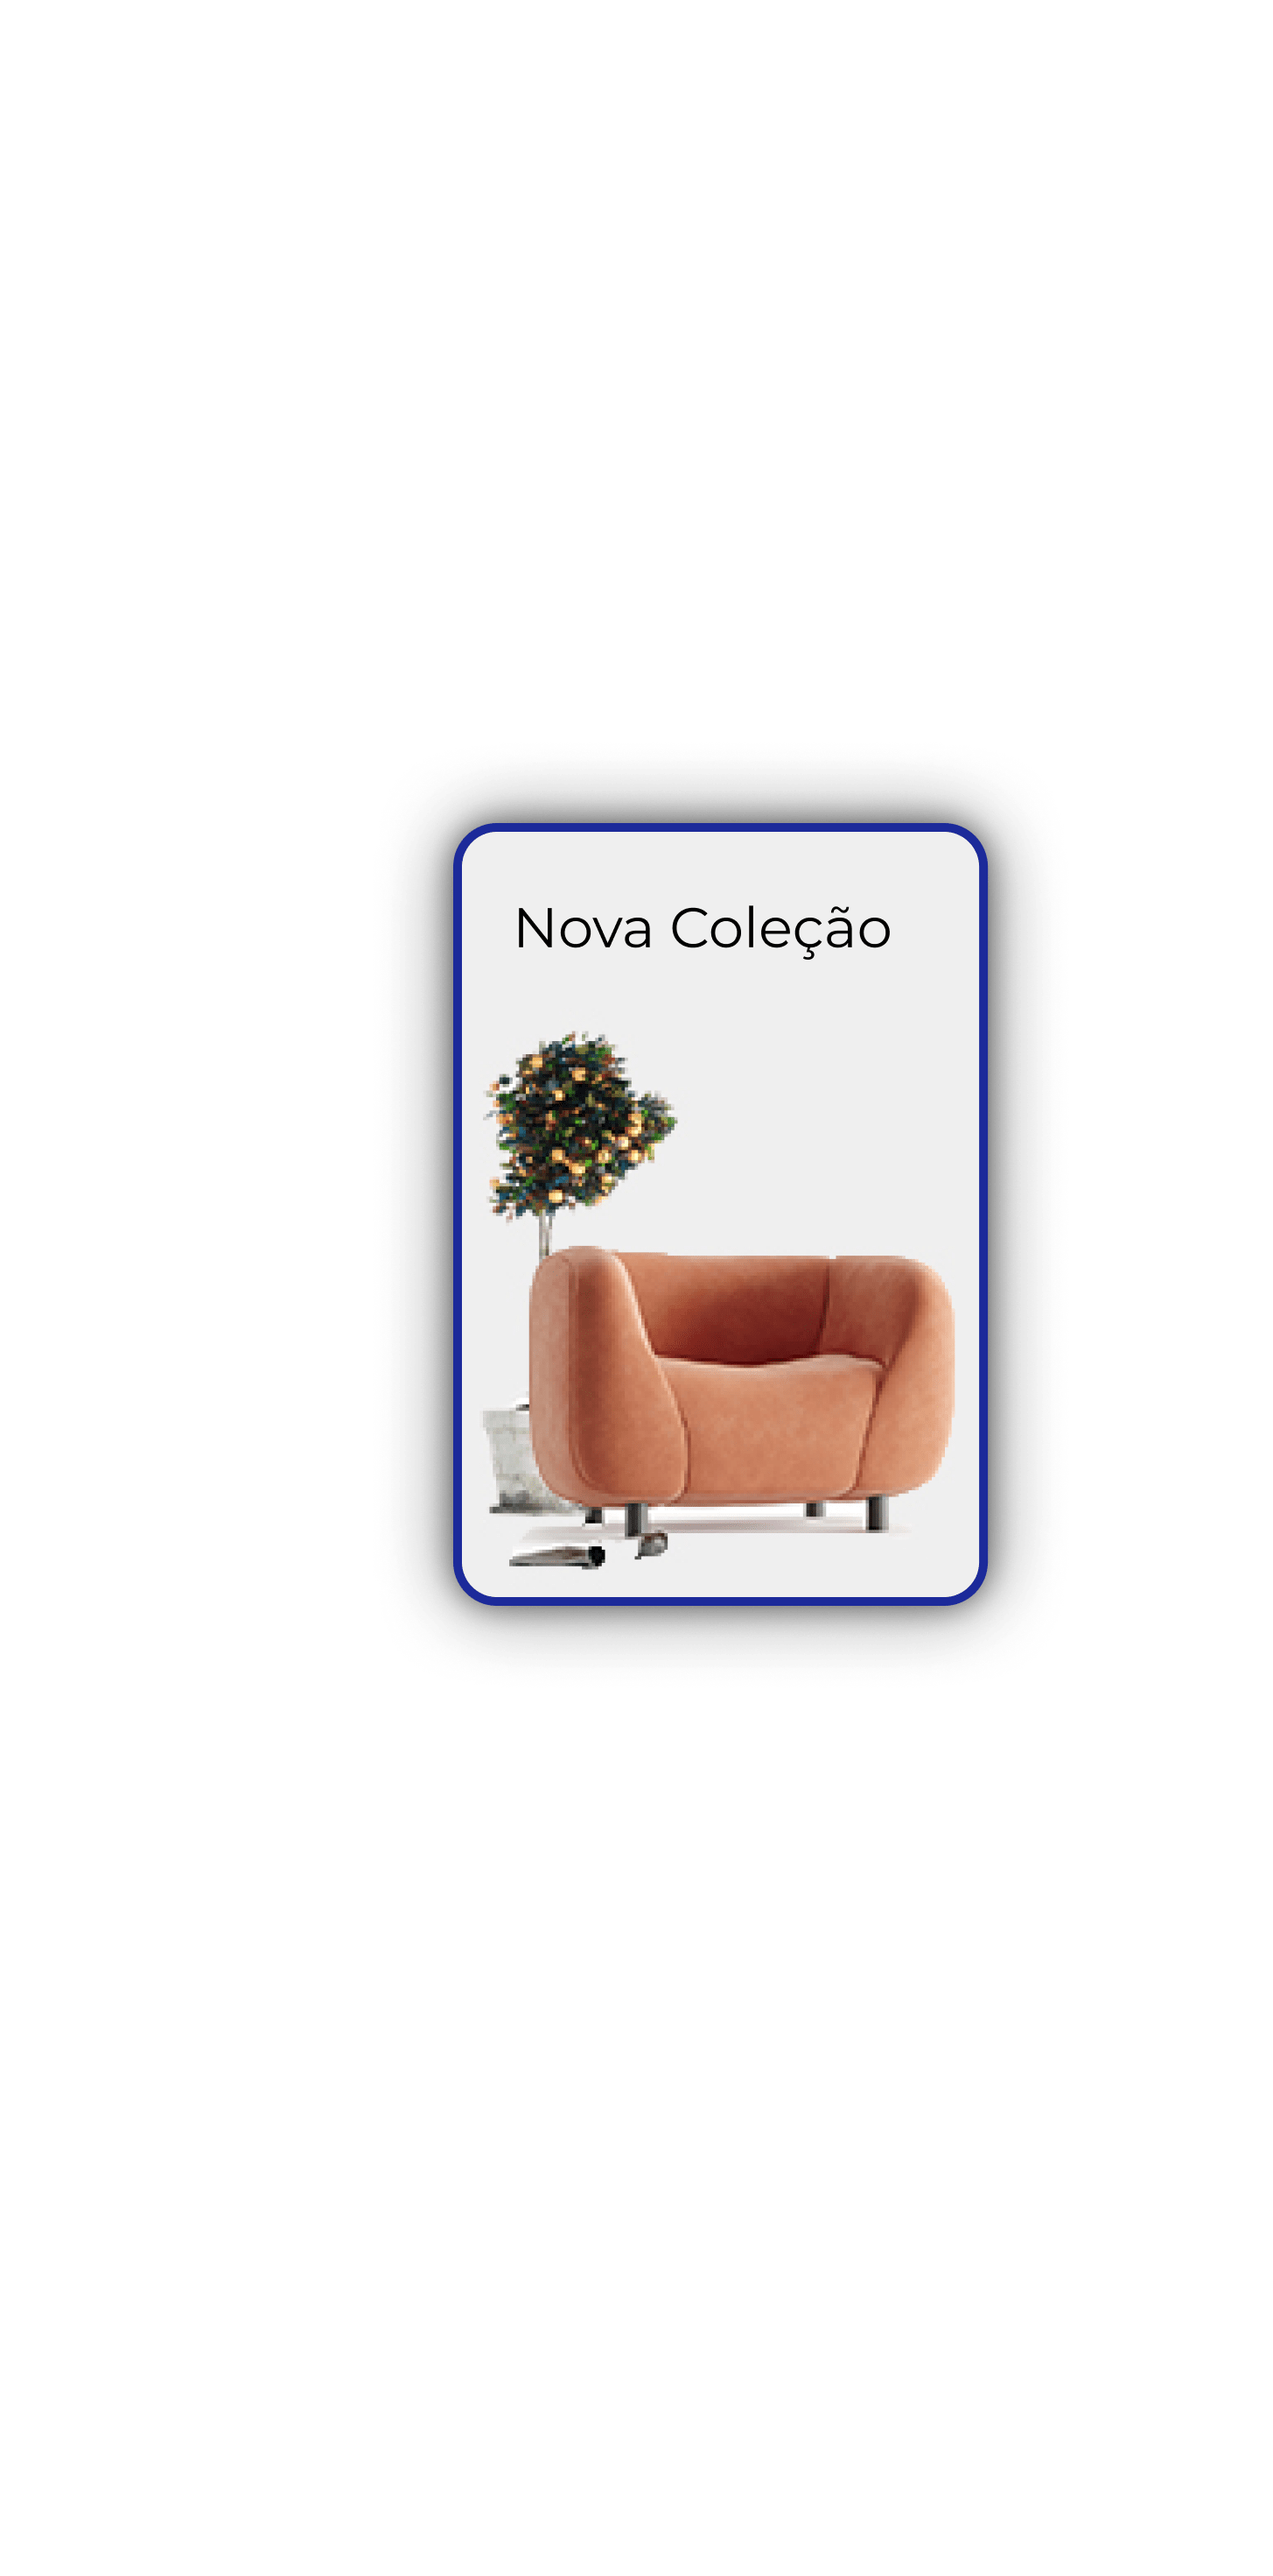
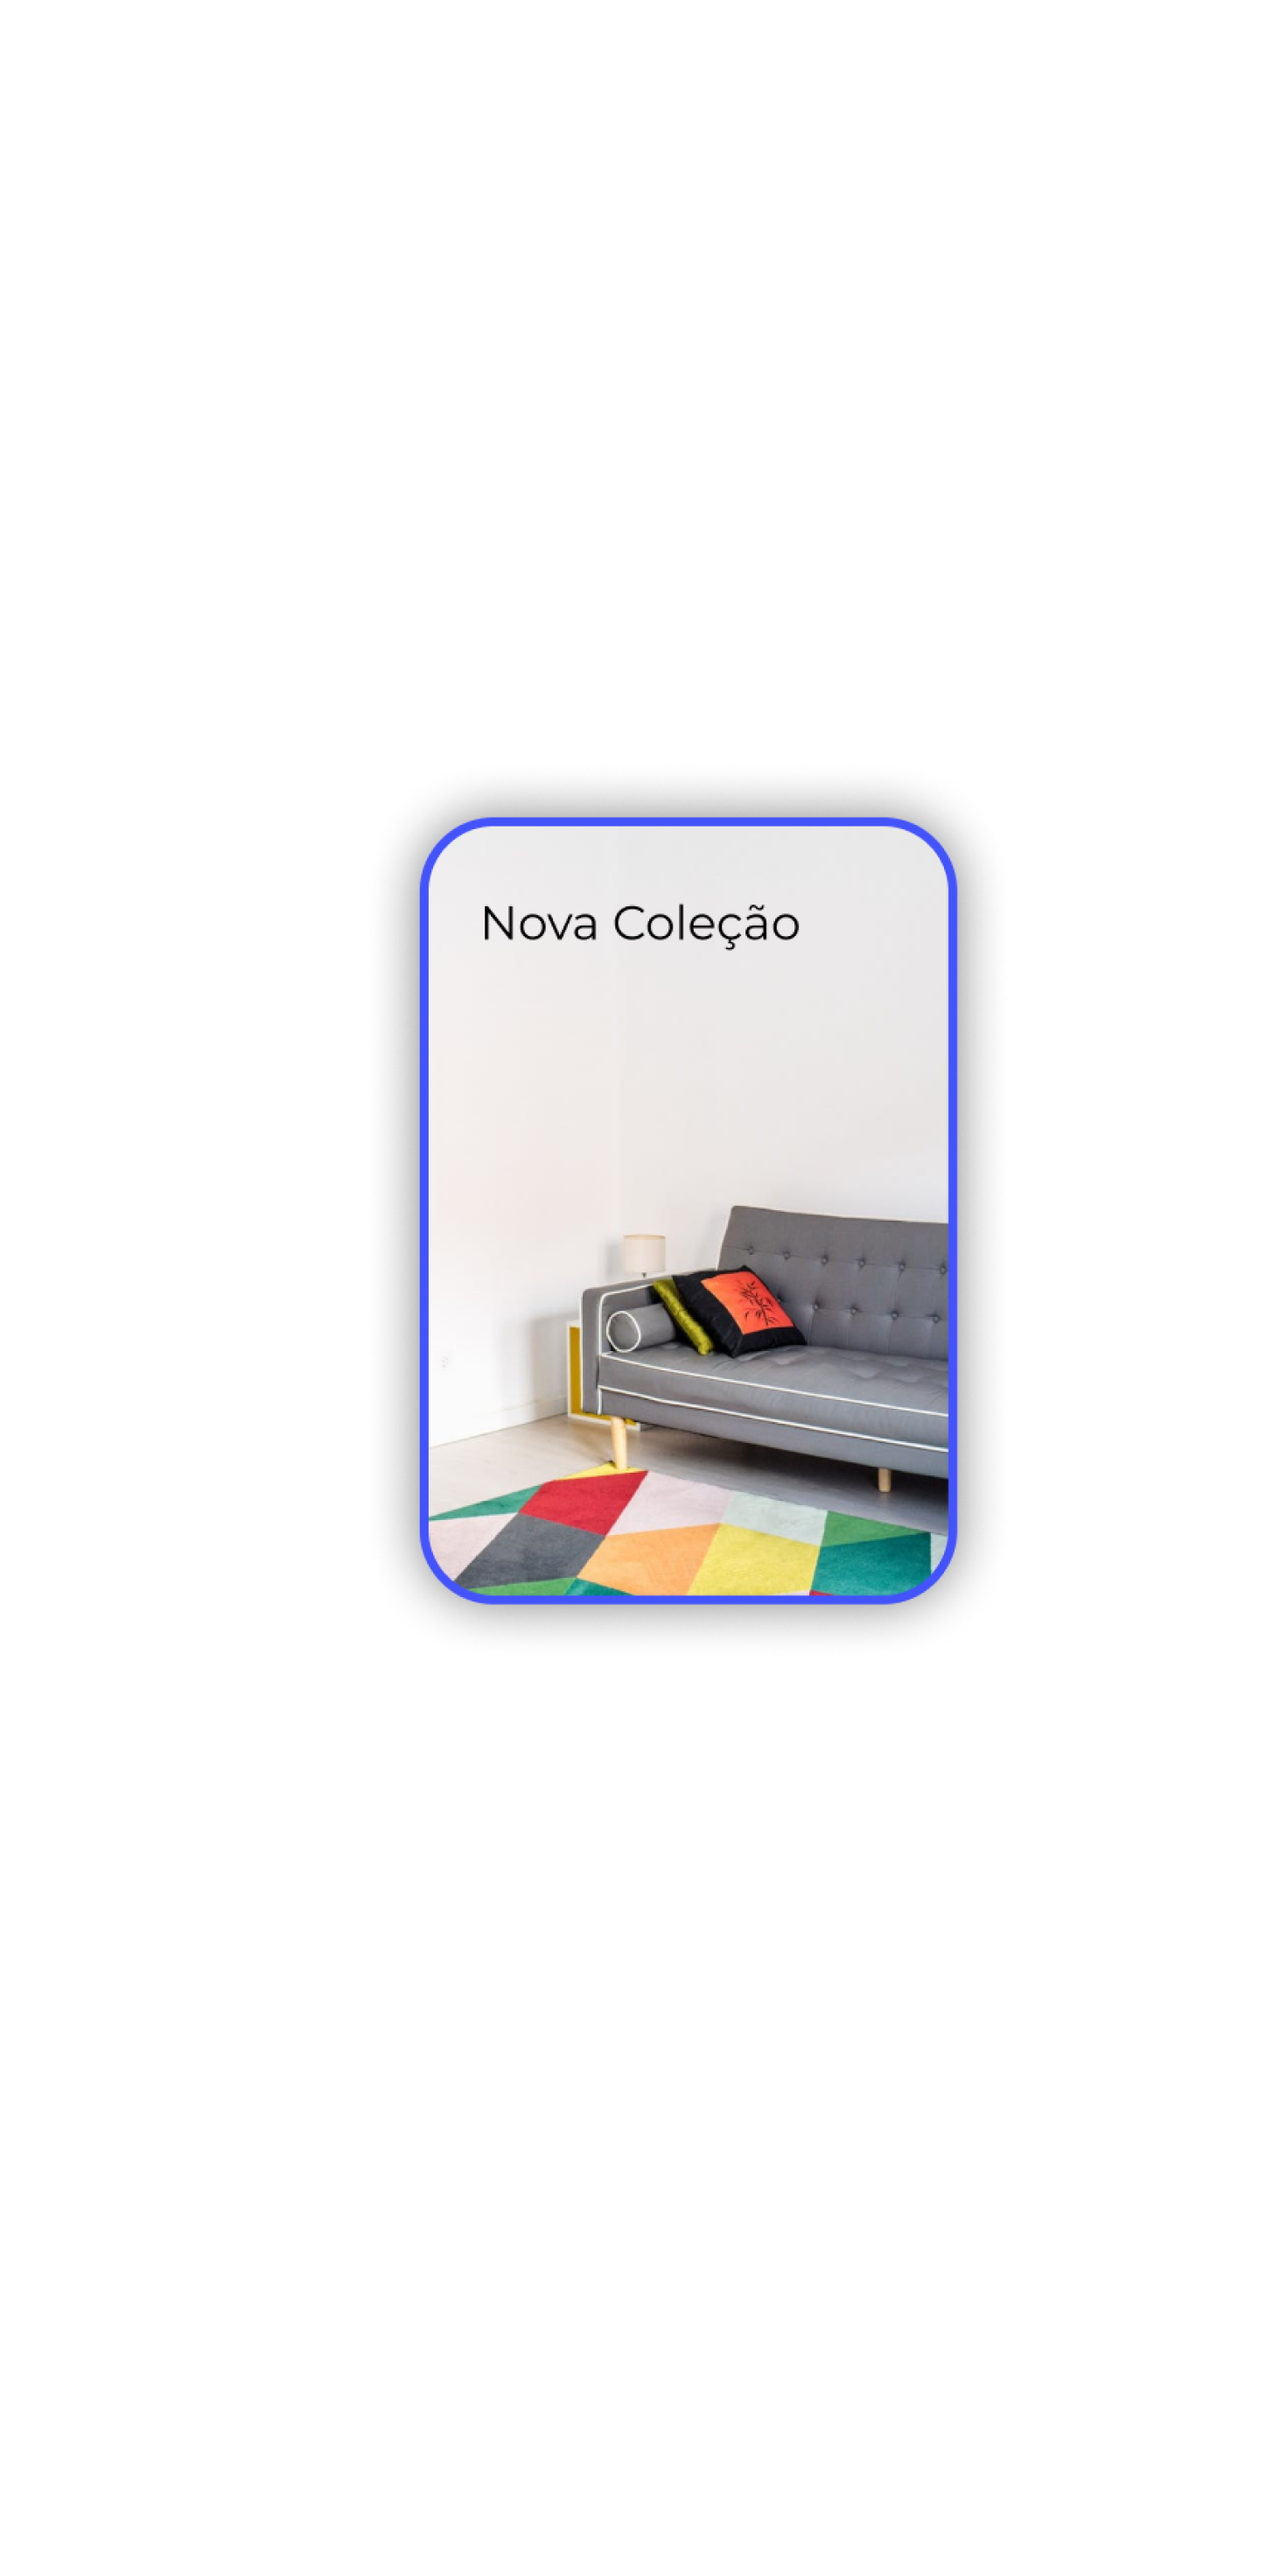
all services pages done

Changed region(s): [[0.3093, 0.3093, 0.8041, 0.6496]]

diff --git a/arvr.html b/arvr.html
@@ -1,0 +1,41 @@
+<html>
+
+<head>
+    <link rel="stylesheet" href="/styles/individual_service.css">
+</head>
+
+<body>
+
+  <div class="mainScreen" id="mainScreen">
+
+    <div class="gbar">
+      <a href="index.html" style="font-weight: bold">GHOSTBIT SOFTWARE</a>
+    </div>
+
+    <nav class="menuNav">
+      <a href="services.html" class="nav_link">VOLTAR</a>
+    </nav>
+
+    <div class="contentor">
+      <div class="text">
+      <p style="font-size: 4vh;"> Realidade Virtual/Aumentada</p>
+      <p style="margin-bottom:6vh;">E se pudesse tirar uma <strong>fotografia HD</strong> de um produto
+        que <strong>ainda não produziu</strong> ? Parece-lhe magia ? É exactamente isso que os nossos designers 3D fazem,
+        na Ghostbit. Traga-nos o seu desenho técnico ou apenas uma ideia e dar-lhe-emos vida em imagens
+        que tornarão o seu processo de trabalho <strong>muito mais simples</strong>.
+      </p>
+      <a href="services.html" class="homeButton">Pedir Orçamento</a>
+    </div>
+      <div class="image">
+        <img class="first" src="/assets/individual_service/ARVR/1.png"/>
+        <img class="second" src="/assets/individual_service/ARVR/2.png"/>
+    </div>
+    </div>
+
+
+
+  </div>
+
+</body>
+
+</html>

diff --git a/marketing.html b/marketing.html
@@ -1,0 +1,41 @@
+<html>
+
+<head>
+    <link rel="stylesheet" href="/styles/individual_service.css">
+</head>
+
+<body>
+
+  <div class="mainScreen" id="mainScreen">
+
+    <div class="gbar">
+      <a href="index.html" style="font-weight: bold">GHOSTBIT SOFTWARE</a>
+    </div>
+
+    <nav class="menuNav">
+      <a href="services.html" class="nav_link">VOLTAR</a>
+    </nav>
+
+    <div class="contentor">
+      <div class="text">
+      <p style="font-size: 4vh;"> Design 3D</p>
+      <p style="margin-bottom:6vh;">E se pudesse tirar uma <strong>fotografia HD</strong> de um produto
+        que <strong>ainda não produziu</strong> ? Parece-lhe magia ? É exactamente isso que os nossos designers 3D fazem,
+        na Ghostbit. Traga-nos o seu desenho técnico ou apenas uma ideia e dar-lhe-emos vida em imagens
+        que tornarão o seu processo de trabalho <strong>muito mais simples</strong>.
+      </p>
+      <a href="services.html" class="homeButton">Pedir Orçamento</a>
+    </div>
+      <div class="image">
+        <img class="first" src="/assets/individual_service/marketing/2.png"/>
+        <img class="second" src="/assets/individual_service/marketing/1.png"/>
+    </div>
+    </div>
+
+
+
+  </div>
+
+</body>
+
+</html>

diff --git a/presentation_website.html b/presentation_website.html
@@ -1,0 +1,41 @@
+<html>
+
+<head>
+    <link rel="stylesheet" href="/styles/individual_service.css">
+</head>
+
+<body>
+
+  <div class="mainScreen" id="mainScreen">
+
+    <div class="gbar">
+      <a href="index.html" style="font-weight: bold">GHOSTBIT SOFTWARE</a>
+    </div>
+
+    <nav class="menuNav">
+      <a href="services.html" class="nav_link">VOLTAR</a>
+    </nav>
+
+    <div class="contentor">
+      <div class="text">
+      <p style="font-size: 4vh;"> Design 3D</p>
+      <p style="margin-bottom:6vh;">E se pudesse tirar uma <strong>fotografia HD</strong> de um produto
+        que <strong>ainda não produziu</strong> ? Parece-lhe magia ? É exactamente isso que os nossos designers 3D fazem,
+        na Ghostbit. Traga-nos o seu desenho técnico ou apenas uma ideia e dar-lhe-emos vida em imagens
+        que tornarão o seu processo de trabalho <strong>muito mais simples</strong>.
+      </p>
+      <a href="services.html" class="homeButton">Pedir Orçamento</a>
+    </div>
+      <div class="image">
+        <img class="first" src="/assets/individual_service/website/1.png"/>
+        <img class="second" src="/assets/individual_service/website/2.png"/>
+    </div>
+    </div>
+
+
+
+  </div>
+
+</body>
+
+</html>

diff --git a/uiux.html b/uiux.html
@@ -1,0 +1,41 @@
+<html>
+
+<head>
+    <link rel="stylesheet" href="/styles/individual_service.css">
+</head>
+
+<body>
+
+  <div class="mainScreen" id="mainScreen">
+
+    <div class="gbar">
+      <a href="index.html" style="font-weight: bold">GHOSTBIT SOFTWARE</a>
+    </div>
+
+    <nav class="menuNav">
+      <a href="services.html" class="nav_link">VOLTAR</a>
+    </nav>
+
+    <div class="contentor">
+      <div class="text">
+      <p style="font-size: 4vh;"> Design 3D</p>
+      <p style="margin-bottom:6vh;">E se pudesse tirar uma <strong>fotografia HD</strong> de um produto
+        que <strong>ainda não produziu</strong> ? Parece-lhe magia ? É exactamente isso que os nossos designers 3D fazem,
+        na Ghostbit. Traga-nos o seu desenho técnico ou apenas uma ideia e dar-lhe-emos vida em imagens
+        que tornarão o seu processo de trabalho <strong>muito mais simples</strong>.
+      </p>
+      <a href="services.html" class="homeButton">Pedir Orçamento</a>
+    </div>
+      <div class="image">
+        <img class="first" src="/assets/individual_service/UIUX/1.png"/>
+        <img class="second" src="/assets/individual_service/UIUX/2.png"/>
+    </div>
+    </div>
+
+
+
+  </div>
+
+</body>
+
+</html>

diff --git a/services.html b/services.html
@@ -33,7 +33,7 @@
         <span style="color: black;">App web</span>
       </a>
 
-      <a href="index.html" class="sitem">
+      <a href="presentation_website.html" class="sitem">
         <img src="assets/services/website.png" class="simage"></img>
         <span style="color: black;">Website</span>
       </a>
@@ -43,7 +43,7 @@
         <span style="color: black;">Loja online</span>
       </a>
 
-        <a href="index.html" class="sitem">
+        <a href="arvr.html" class="sitem">
           <img src="assets/services/arvr.png" class="simage"></img>
           <span style="color: black;">VR / AR</span>
         </a>
@@ -53,12 +53,12 @@
           <span style="color: black;">3D design</span>
         </a>
 
-        <a href="index.html" class="sitem">
+        <a href="uiux.html" class="sitem">
           <img src="assets/services/uiuxdesign.png" class="simage"></img>
           <span style="color: black;">UI UX design</span>
         </a>
 
-        <a href="index.html" class="sitem">
+        <a href="marketing.html" class="sitem">
           <img src="assets/services/webmarketing.png" class="simage"></img>
           <span style="color: black;">Web marketing</span>
         </a>
